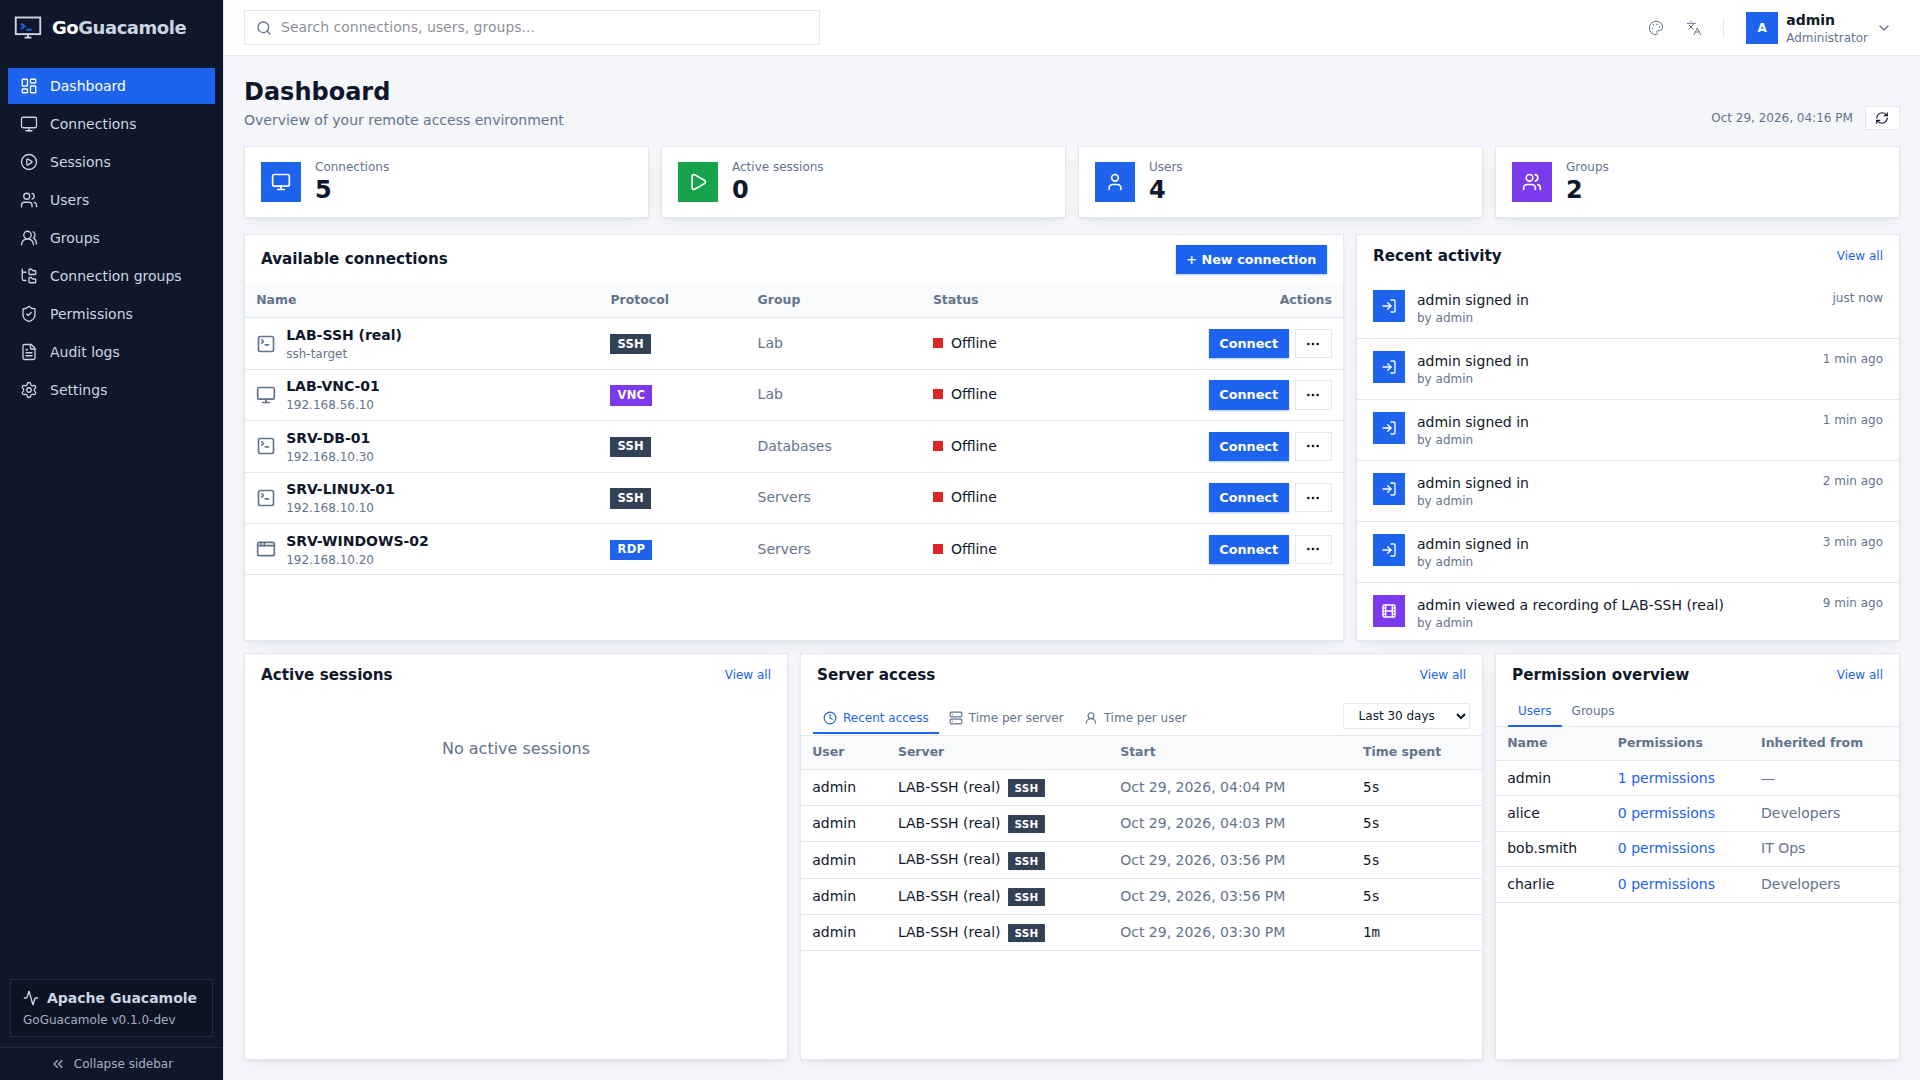
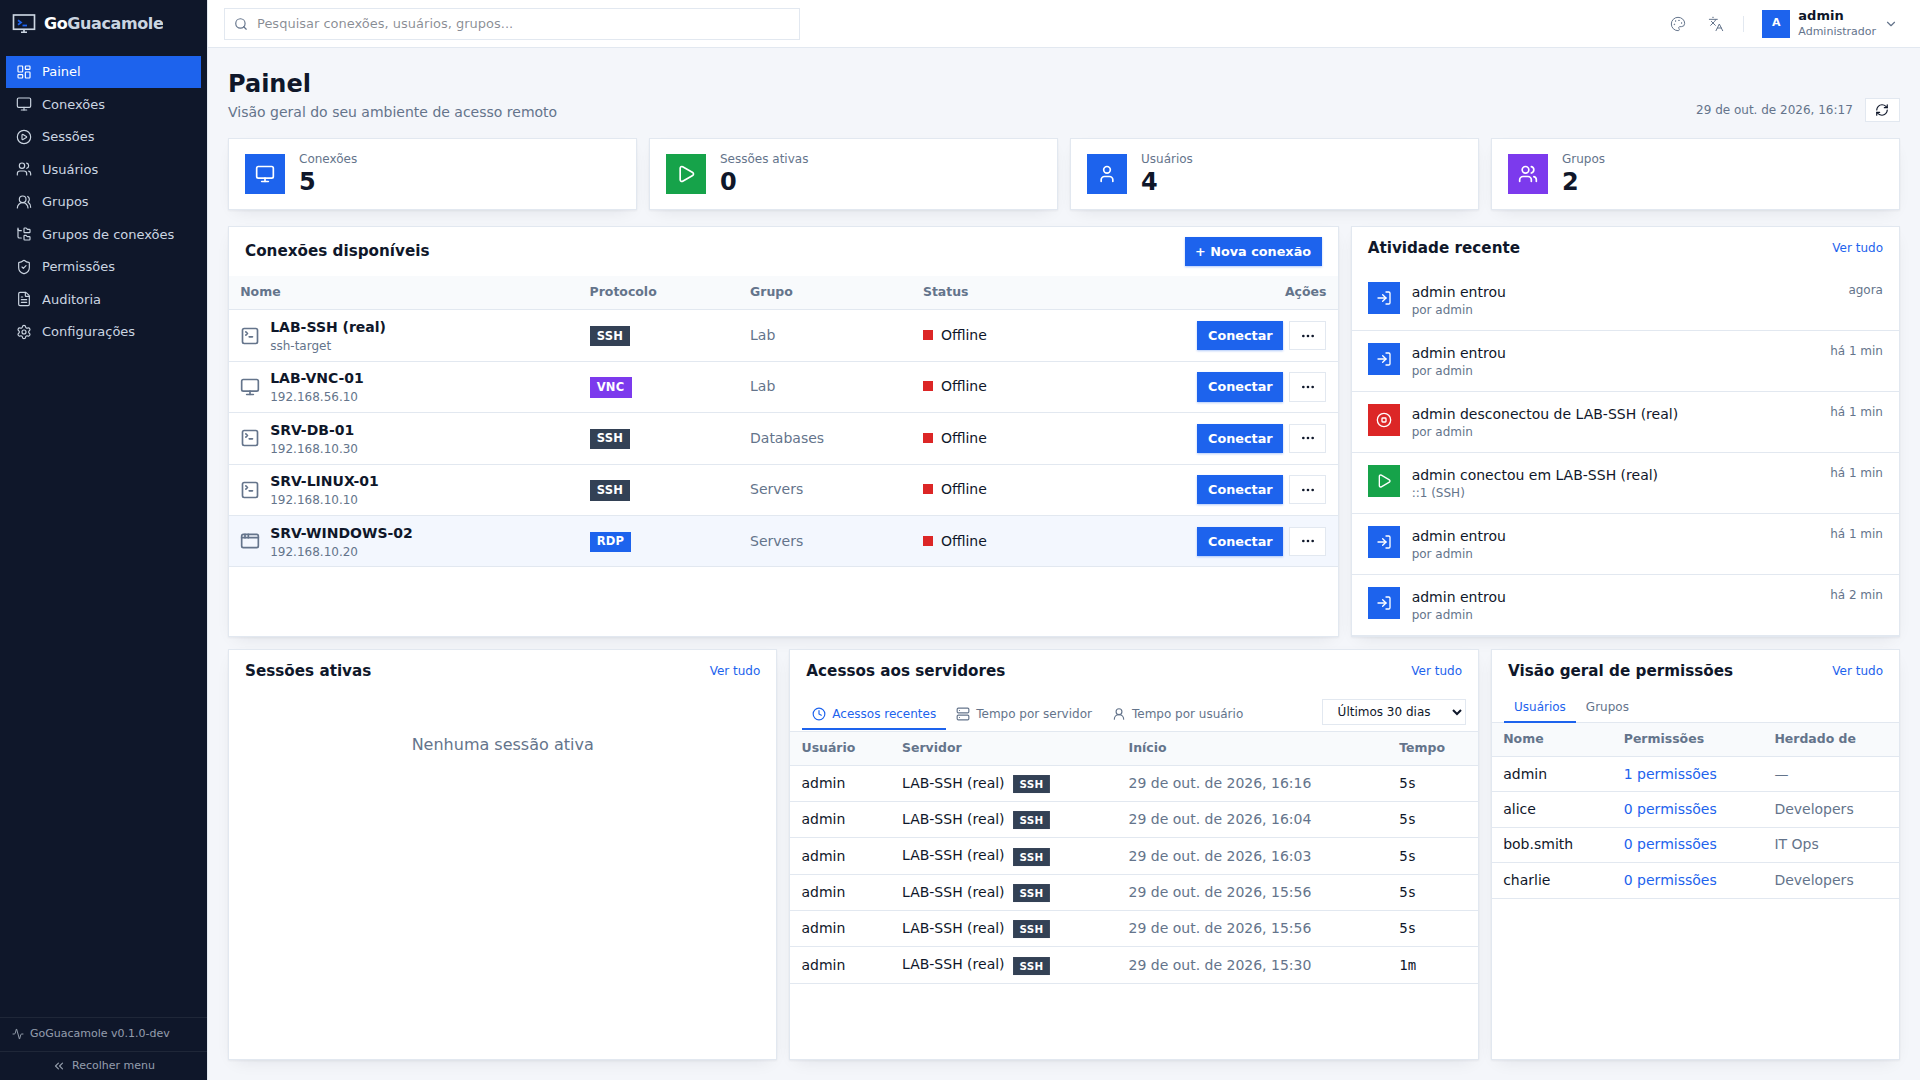
style: slimmer header and sidebar

diff --git a/frontend/src/components/AppSidebar.vue b/frontend/src/components/AppSidebar.vue
@@ -63,42 +63,42 @@ onBeforeUnmount(() => clearInterval(timer))
 <template>
   <aside
     class="fixed inset-y-0 left-0 z-40 flex flex-col border-r border-line bg-sidebar text-sidebar-fg transition-transform lg:static lg:translate-x-0"
-    :class="[collapsed ? 'w-14' : 'w-56', props.mobileOpen ? 'translate-x-0' : '-translate-x-full']"
+    :class="[collapsed ? 'w-12' : 'w-52', props.mobileOpen ? 'translate-x-0' : '-translate-x-full']"
     :aria-label="t('nav.menu')"
   >
-    <div class="flex h-14 items-center gap-2.5 px-3.5">
-      <AppLogo class="h-7 w-7 shrink-0" />
-      <span v-if="!collapsed" class="truncate text-lg font-bold tracking-tight">
+    <div class="flex h-12 items-center gap-2 px-3">
+      <AppLogo class="h-6 w-6 shrink-0" />
+      <span v-if="!collapsed" class="truncate text-base font-bold tracking-tight">
         <span class="text-sidebar-active-fg">Go</span><span>Guacamole</span>
       </span>
     </div>
-    <nav class="flex-1 overflow-y-auto px-2 py-3">
+    <nav class="flex-1 overflow-y-auto px-1.5 py-2">
       <RouterLink
         v-for="i in items"
         :key="i.to"
         :to="i.to"
-        class="nav-item mb-0.5 flex items-center gap-3 px-3 py-2 text-sm font-medium"
+        class="nav-item mb-px flex items-center gap-2.5 px-2.5 py-1.5 text-[13px] font-medium"
         :title="collapsed ? t(i.label) : undefined"
         @click="emit('navigate')"
       >
-        <component :is="i.icon" class="h-[18px] w-[18px] shrink-0" :stroke-width="1.75" />
+        <component :is="i.icon" class="h-4 w-4 shrink-0" :stroke-width="1.75" />
         <span v-if="!collapsed" class="truncate">{{ t(i.label) }}</span>
       </RouterLink>
     </nav>
-    <div v-if="!collapsed" class="m-2.5 border border-white/10 bg-black/15 px-3 py-2 text-xs">
-      <div class="mb-1 flex items-center gap-2 text-sm font-semibold">
-        <Activity class="h-4 w-4" /> {{ t('app.poweredBy') }}
-      </div>
-      <div class="opacity-80">GoGuacamole v{{ version }}</div>
-      <div class="theme-clock mt-2 font-mono">{{ d(now, 'time') }}</div>
+    <div
+      v-if="!collapsed"
+      class="flex items-center justify-between gap-2 border-t border-white/10 px-3 py-2 text-[11px] opacity-70"
+    >
+      <span class="flex items-center gap-1.5"><Activity class="h-3 w-3" /> GoGuacamole v{{ version }}</span>
+      <span class="theme-clock font-mono">{{ d(now, 'time') }}</span>
     </div>
     <button
-      class="hidden items-center justify-center gap-2 border-t border-white/10 py-2 text-xs opacity-80 hover:opacity-100 lg:flex"
+      class="hidden items-center justify-center gap-1.5 border-t border-white/10 py-1.5 text-[11px] opacity-70 hover:opacity-100 lg:flex"
       :title="collapsed ? t('nav.expand') : t('nav.collapse')"
       @click="collapsed = !collapsed"
     >
-      <ChevronsRight v-if="collapsed" class="h-4 w-4" />
-      <template v-else><ChevronsLeft class="h-4 w-4" /> {{ t('nav.collapse') }}</template>
+      <ChevronsRight v-if="collapsed" class="h-3.5 w-3.5" />
+      <template v-else><ChevronsLeft class="h-3.5 w-3.5" /> {{ t('nav.collapse') }}</template>
     </button>
   </aside>
 </template>

diff --git a/frontend/src/components/AppTopbar.vue b/frontend/src/components/AppTopbar.vue
@@ -36,15 +36,15 @@ async function logout() {
 </script>
 
 <template>
-  <header class="topbar flex h-14 shrink-0 items-center gap-3 border-b border-line bg-surface px-3 md:px-5">
+  <header class="topbar flex h-12 shrink-0 items-center gap-3 border-b border-line bg-surface px-3 md:px-4">
     <button class="btn btn-sm lg:hidden" :aria-label="t('nav.menu')" @click="emit('toggle-menu')">
       <Menu class="h-4 w-4" />
     </button>
     <form class="relative max-w-xl flex-1" role="search" @submit.prevent="search">
-      <Search class="pointer-events-none absolute top-1/2 left-3 h-4 w-4 -translate-y-1/2 text-muted" />
+      <Search class="pointer-events-none absolute top-1/2 left-2.5 h-3.5 w-3.5 -translate-y-1/2 text-muted" />
       <input
         v-model="q"
-        class="input py-1.5 pl-9"
+        class="input h-8 py-1 pl-8 text-[13px]"
         type="search"
         :placeholder="t('common.searchPlaceholder')"
         :aria-label="t('common.search')"
@@ -53,24 +53,26 @@ async function logout() {
     <div class="ml-auto flex items-center gap-2">
       <ThemePicker />
       <LocalePicker />
-      <span class="mx-1.5 hidden h-5 w-px bg-line sm:block" aria-hidden="true" />
+      <span class="mx-1 hidden h-4 w-px bg-line sm:block" aria-hidden="true" />
       <div class="relative">
         <button
-          class="flex items-center gap-2 px-2 py-1 hover:bg-surface-2"
+          class="flex items-center gap-2 px-1.5 py-0.5 hover:bg-surface-2"
           :aria-expanded="open"
           aria-haspopup="menu"
           @click="open = !open"
         >
-          <span class="flex h-8 w-8 items-center justify-center bg-accent text-xs font-bold text-accent-fg">
+          <span
+            class="flex h-7 w-7 items-center justify-center bg-accent text-[11px] font-bold text-accent-fg"
+          >
             {{ initials }}
           </span>
           <span class="hidden text-left leading-tight sm:block">
-            <span class="block text-sm font-semibold">{{ name }}</span>
-            <span class="block text-xs text-muted">{{
+            <span class="block text-[13px] leading-4 font-semibold">{{ name }}</span>
+            <span class="block text-[11px] leading-4 text-muted">{{
               auth.isAdmin ? t('common.role.admin') : t('common.role.user')
             }}</span>
           </span>
-          <ChevronDown class="h-4 w-4 text-muted" />
+          <ChevronDown class="h-3.5 w-3.5 text-muted" />
         </button>
         <div
           v-if="open"
